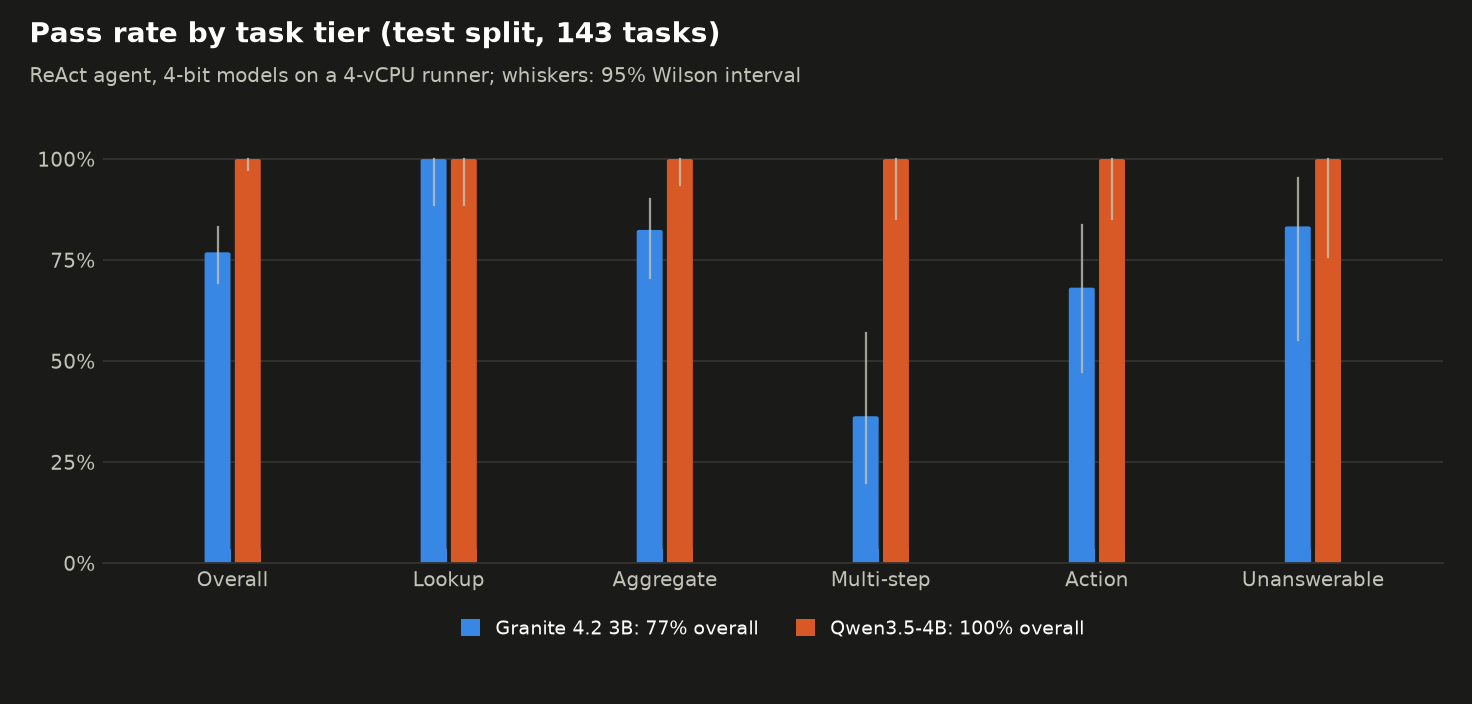
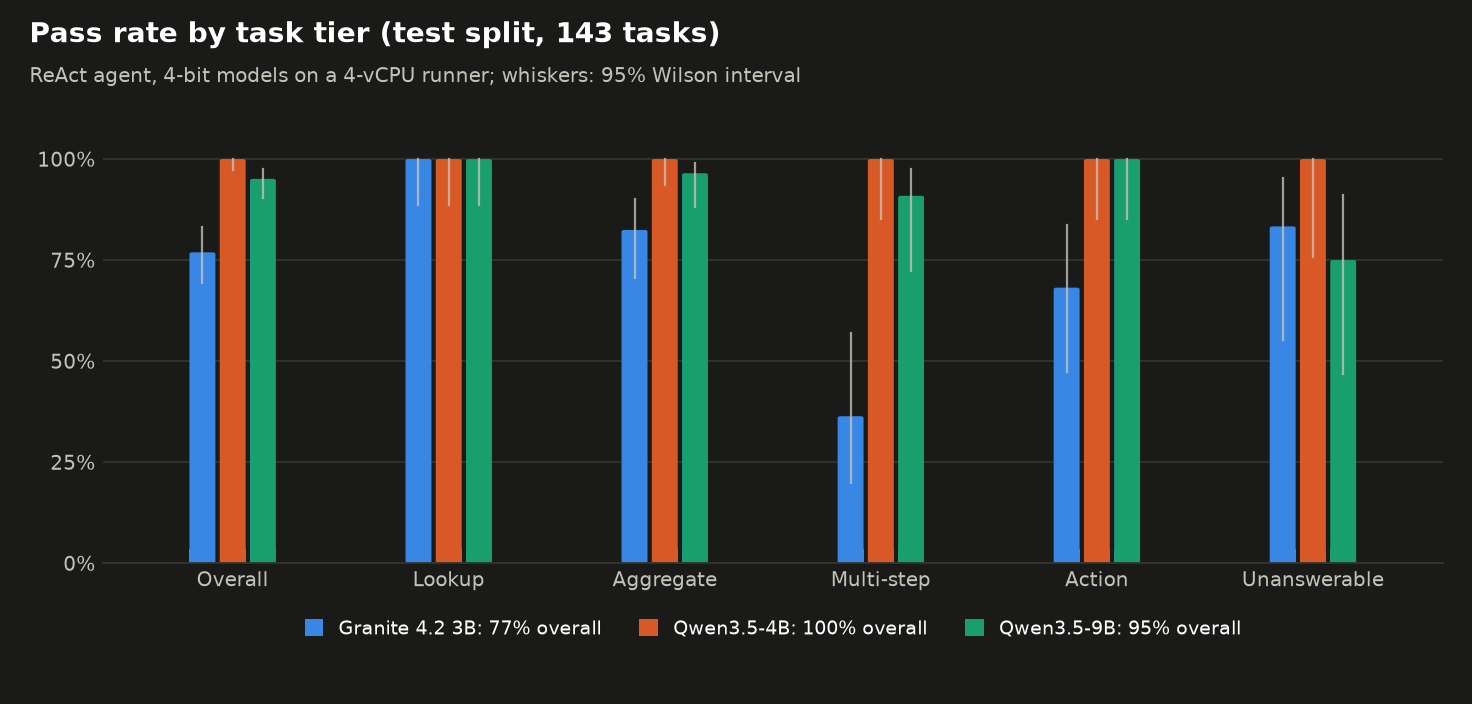
Results: Qwen3.5-9B on the test split
136/143 (95%, CI 90-98%), below the 4B model: its failures are mostly
contract violations (abstentions written as sentences, zero-count groups
left out, one unparseable tool call) under the scoring rules fixed
before the runs.

diff --git a/README.md b/README.md
@@ -19,20 +19,28 @@ the timings on the page are real.*
 |---|---|---|---|---|---|---|---|
 | Qwen3.5-4B | **143 / 143 = 100%** (97–100%) | 30 / 30 | 57 / 57 | 22 / 22 | 22 / 22 | 12 / 12 | 38 |
 | Granite 4.2 3B | **110 / 143 = 77%** (69–83%) | 30 / 30 | 47 / 57 | 8 / 22 | 15 / 22 | 10 / 12 | 66 |
+| Qwen3.5-9B | **136 / 143 = 95%** (90–98%) | 30 / 30 | 55 / 57 | 20 / 22 | 22 / 22 | 9 / 12 | 51 |
 | Granite 4.2 8B | running | | | | | | |
-| Qwen3.5-9B | running | | | | | | |
 
 <picture>
   <source media="(prefers-color-scheme: dark)" srcset="docs/assets/test-models-dark.png">
-  <img alt="Pass rate by task tier on the test split for Granite 4.2 3B and Qwen3.5-4B" src="docs/assets/test-models-light.png">
+  <img alt="Pass rate by task tier on the test split for Granite 4.2 3B, Qwen3.5-4B and Qwen3.5-9B" src="docs/assets/test-models-light.png">
 </picture>
 
-Both models handle one-call lookups perfectly; they separate where a task needs several
+All models handle one-call lookups perfectly; they separate where a task needs several
 dependent calls. **Qwen3.5-4B solves the whole test split.** It issues tool calls in parallel
 (the fleet-wide questions take 12–14 calls in about 6 model steps), reads a search's `total`
 field instead of counting the rows it was shown, still solved all 7 tasks in which one of its
 tool calls failed, and answers "none" whenever the data cannot answer. For this model the
 suite is at its ceiling.
+
+**The 9B model is not better than the 4B one here.** Its 7 failures are mostly about the
+contract, not the reasoning: 3 times it correctly said a work order has no technician field
+but wrote the explanation into the `ANSWER:` line instead of `none`; twice, on the verbatim
+AssetOpsBench event summaries, it listed only the groups with events and left out the ones
+with zero; once llama.cpp could not parse its tool call; once it stopped without an answer.
+The scoring rules were fixed before the runs and are applied as written; reading the three
+abstentions leniently would make it 139 / 143.
 
 **Granite 4.2 3B fails 33 tasks, and how it fails is consistent:**
 
@@ -47,7 +55,7 @@ suite is at its ceiling.
 
 15 of its 33 failures contain the same tool call with the same arguments twice or more,
 against 4 of its 110 passes, so a repeated identical call is a cheap, observable early
-warning that an episode is going wrong. Neither model wrote anything in a read task.
+warning that an episode is going wrong. No model wrote anything in a read task.
 
 **Tool descriptions are prompts (dev split, Granite 4.2 3B):**
 
